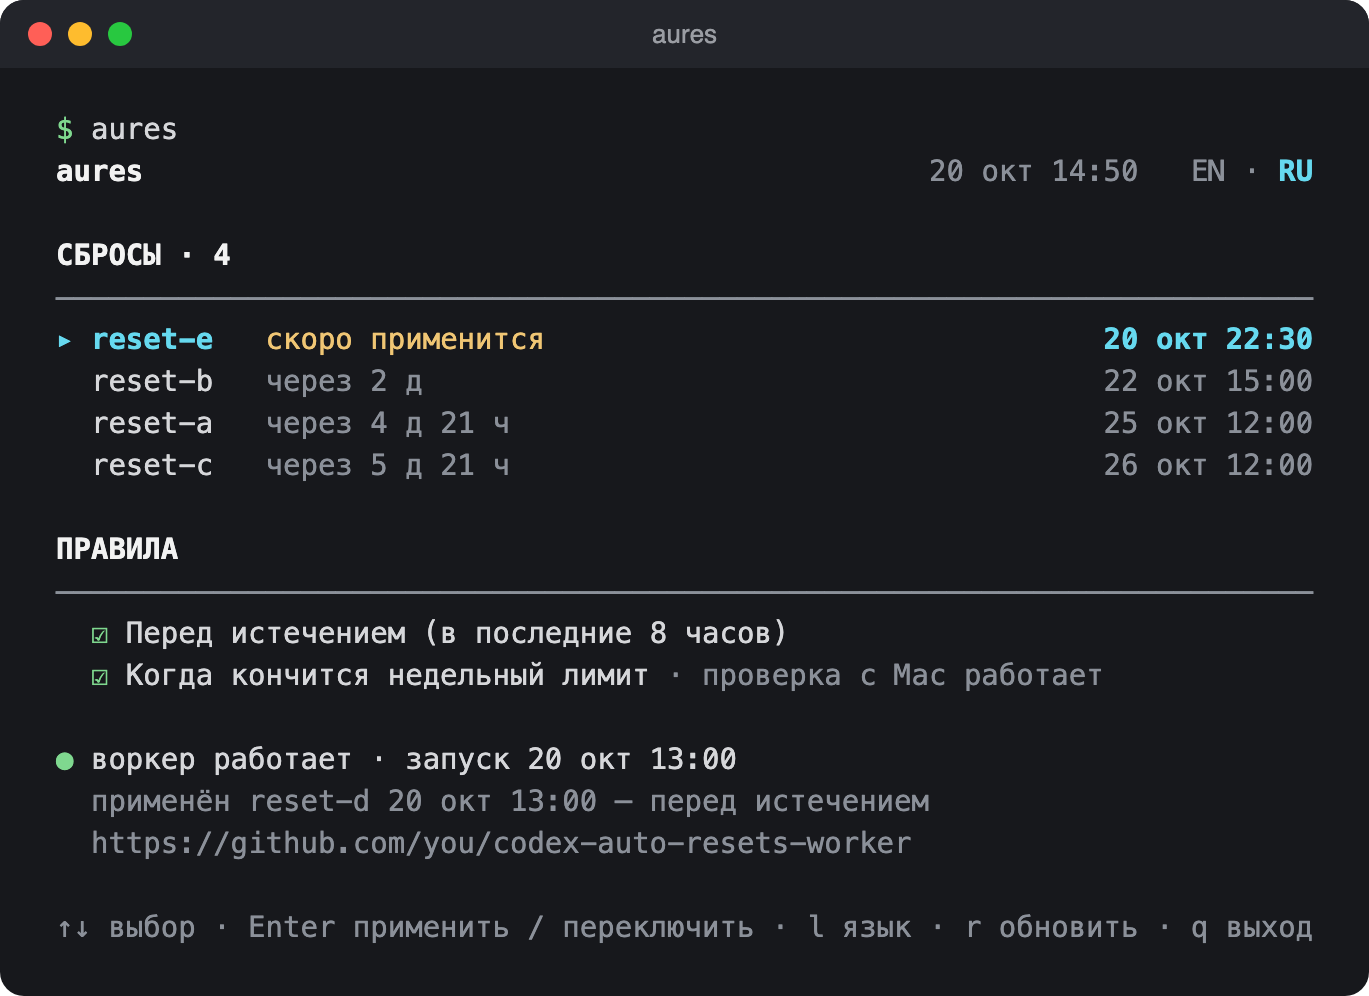
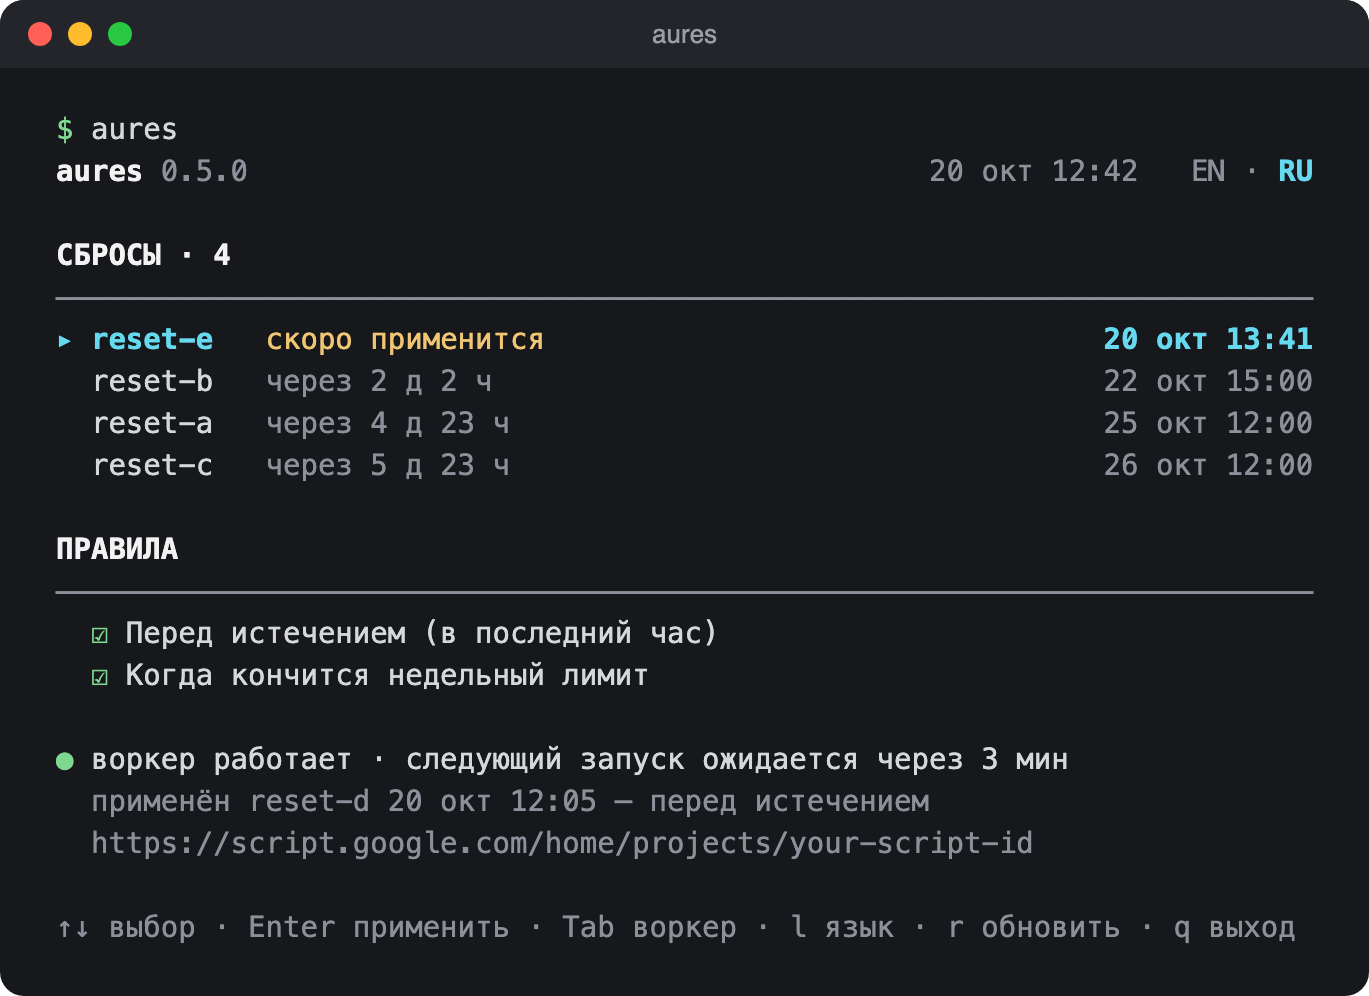
Retake the README screenshots on Google and show the «Worker» screen
The screen and setup shots now show a worker on Google Apps Script: the
platform question, the Google sign-in, the Apps Script API switch and the
one-hour window. A new section with its own shot describes the «Worker»
screen. The Mac in the diagram is marked GitHub-only, and the Russian
README matches the English one on the screen and the commands.

Claude-Session: https://claude.ai/code/session_01EwFZrknp6cEUBmBeinEECK

diff --git a/docs/README.ru.md b/docs/README.ru.md
@@ -14,7 +14,7 @@
 
 [English](../README.md) · **Русский**
 
-<img src="assets/status-ru.png" alt="Экран aures: сбросы сверху, правила снизу">
+<img src="assets/status-ru.png" alt="Экран aures: сбросы сверху, правила снизу, воркер в Google Apps Script">
 
 </div>
 
@@ -22,7 +22,7 @@
 
 - **Сброс не сгорит.** Воркер применит сброс до истечения срока: в последние 8 часов на GitHub, в последний час на Google.
 - **Кончился недельный лимит — сброс через минуты.** Правило можно включить: воркер применит сброс с ближайшим сроком. На Google воркер сам проверяет лимит каждые 5 минут, даже когда Mac выключен; на GitHub, пока Mac не спит, лимит раз в 2 минуты проверяет Mac и зовёт воркера, в каком бы клиенте лимит ни израсходовали: Codex, opencode, телефон.
-- **Один экран.** `aures` показывает сбросы сверху и правила снизу. Enter на сбросе применяет его сейчас, без всяких правил; Enter на правиле переключает его. `Tab` открывает экран «Воркер»: площадка и аккаунты, «Проверить сейчас» (пробный запуск, ничего не применяет), «Починить» (заново заливает текущую версию воркера и возвращает расписание) и живой журнал воркера.
+- **Один экран.** `aures` показывает сбросы сверху и правила снизу. Enter на сбросе применяет его сейчас, без всяких правил; Enter на правиле переключает его. `Tab` открывает экран «Воркер»: площадка с её состоянием, аккаунты, «Проверить сейчас» (пробный запуск, ничего не применяет), «Починить» (заново заливает текущую версию воркера и возвращает расписание), «Пауза» (расписание снято, «Применить сейчас» работает), «Переключиться на …» (другая площадка без переустановки) и живой журнал воркера, который опрашивается, пока экран открыт. Экран, пауза и переключение подробно — в [инструкции](installation.md).
 - **Без серверов и подписок.** Всё в вашем аккаунте: GitHub Actions (до ~750 минут в месяц из 2000 бесплатных) или Google Apps Script (~5–10 минут триггеров в сутки из 90 бесплатных).
 - **Codex на Mac не затронут.** У воркера и у проверки с Mac свои входы в ChatGPT, данные Codex не копируются.
 
@@ -50,7 +50,7 @@ aures setup
 
 `setup` спросит, где будет работать воркер — на GitHub или в Google Apps Script, — поставит его туда и один раз запустит. На GitHub это вход по одноразовым кодам, приватный репозиторий `codex-auto-resets-worker` и выбор правил; на Google — проект скрипта `aures-worker` и два экрана «Google не проверял это приложение» (как их пройти — в [инструкции](installation.md)):
 
-<img src="assets/setup-ru.png" alt="aures setup: вход в GitHub и ChatGPT, правила, проверка с Mac и пробный запуск">
+<img src="assets/setup-ru.png" alt="aures setup в Google Apps Script: выбор площадки, вход в Google, переключатель API скрипта, правила, вход в ChatGPT и пробный запуск">
 
 Подробно, в том числе об установке из исходников, — в [инструкции](installation.md).
 
@@ -58,8 +58,8 @@ aures setup
 
 | Команда | Что делает |
 | --- | --- |
+| *(без команды)* | экран: сбросы и правила; Enter применяет сброс или переключает правило; `Tab` — экран «Воркер»: проверка, починка, пауза, смена площадки, журнал |
 | `setup` | установить (спросит площадку: GitHub или Google) или продолжить прерванную установку |
-| *(без команды)* | экран: сбросы и правила; Enter применяет сброс или переключает правило; `Tab` — экран «Воркер» |
 | `status` | то же одним выводом: сбросы, правила, состояние воркера и проверки с Mac |
 | `apply-now` | применить выбранный сброс сейчас |
 | `rules` | выбрать, когда применять сбросы |
@@ -68,12 +68,27 @@ aures setup
 | `uninstall` | удалить воркер, проверку с Mac и входы |
 | `language en` / `language ru` | язык программы; на экране то же делает клавиша `l` |
 
+## Экран «Воркер»
+
+`Tab` на экране открывает сам воркер, на любой площадке:
+
+<div align="center">
+<img src="assets/worker-ru.png" alt="Экран «Воркер»: площадка и её состояние, аккаунты, действия и живой журнал">
+</div>
+
+- **Воркер** — площадка, её состояние (активен, на паузе, переключение не завершено) и ссылка на репозиторий или проект скрипта.
+- **Аккаунты** — аккаунт GitHub или Google и вход воркера в ChatGPT; Enter на любом из них — войти заново.
+- **Действия** — «Проверить сейчас» (пробный запуск, ничего не применяет), «Починить» (заново заливает текущую версию воркера и возвращает расписание), «Пауза» / «Снять с паузы» (снять и вернуть расписание; «Применить сейчас» работает и на паузе) и «Переключиться на …» (переносит воркер на другую площадку без переустановки).
+- **Журнал** — последние запуски воркера, новые сверху: что запустило и чем кончилось. Пока экран открыт, журнал опрашивается: на Google каждые 30 секунд, на GitHub каждую минуту.
+
+Подробно — в [инструкции](installation.md#экран-воркер).
+
 ## Как это работает
 
 ```mermaid
 flowchart LR
   hour(["⏰ раз в час (GitHub)<br/>или каждые 5 минут (Google)"])
-  mac(["💻 Mac: недельный<br/>лимит кончился"])
+  mac(["💻 Mac: недельный<br/>лимит кончился<br/>(GitHub)"])
   you(["⌨ вы нажали Enter<br/>на сбросе"])
   worker["<b>Воркер</b><br/>GitHub Actions<br/>или Google Apps Script<br/>в вашем аккаунте"]
   due{"сработало правило<br/>или вы попросили?"}

diff --git a/README.md b/README.md
@@ -14,7 +14,7 @@ Runs in your own account — GitHub Actions or Google Apps Script. Your Mac can 
 
 **English** · [Русский](docs/README.ru.md)
 
-<img src="docs/assets/status-en.png" alt="The aures screen: resets on top, rules below">
+<img src="docs/assets/status-en.png" alt="The aures screen: resets on top, rules below, the worker on Google Apps Script">
 
 </div>
 
@@ -47,7 +47,7 @@ aures setup
 
 `setup` asks where the worker will run — GitHub or Google Apps Script — installs it there and runs it once. On GitHub that means one-time codes, the private repo `codex-auto-resets-worker` and the rules; on Google, the script project `aures-worker` and two «Google hasn't verified this app» screens (the walkthrough for every screen is in the [guide](docs/installation.en.md)):
 
-<img src="docs/assets/setup-en.png" alt="aures setup: GitHub and ChatGPT sign-in, rules, the Mac check and a trial run">
+<img src="docs/assets/setup-en.png" alt="aures setup on Google Apps Script: the platform, the Google sign-in, the Apps Script API switch, rules, the ChatGPT sign-in and a trial run">
 
 The CLI speaks English; for Russian press `l` on the screen or run `aures language ru`.
 
@@ -67,12 +67,27 @@ Full guide, including installing from source: [docs/installation.en.md](docs/ins
 | `uninstall` | remove the worker, the Mac check and the sign-ins |
 | `language en` / `language ru` | the language of the CLI; `l` on the screen does the same |
 
+## The «Worker» screen
+
+`Tab` on the screen opens the worker itself, on either platform:
+
+<div align="center">
+<img src="docs/assets/worker-en.png" alt="The «Worker» screen: the platform and its state, the accounts, the actions and the live journal">
+</div>
+
+- **Worker** — the platform, its state (active, on pause, switch unfinished) and a link to the repo or the script project.
+- **Accounts** — the GitHub or Google account and the worker's ChatGPT sign-in; Enter on either signs in again.
+- **Actions** — «Check now» (a trial run that applies nothing), «Repair» (deploys this version of the worker again and brings its schedule back), «Pause» / «Unpause» (the schedule off and back on; «Apply now» still works on pause) and «Switch to …» (moves the worker to the other platform, no reinstall).
+- **Journal** — the last runs of the worker, newest first: what started each run and how it ended. It is polled while the screen is open: every 30 seconds on Google, every minute on GitHub.
+
+Details in the [guide](docs/installation.en.md#the-worker-screen).
+
 ## How it works
 
 ```mermaid
 flowchart LR
   hour(["⏰ hourly (GitHub)<br/>or every 5 min (Google)"])
-  mac(["💻 your Mac sees<br/>the weekly limit run out"])
+  mac(["💻 your Mac sees<br/>the weekly limit run out<br/>(GitHub)"])
   you(["⌨ you press Enter<br/>on a reset"])
   worker["<b>Worker</b><br/>GitHub Actions<br/>or Google Apps Script<br/>in your account"]
   due{"a rule fires<br/>or you asked?"}
